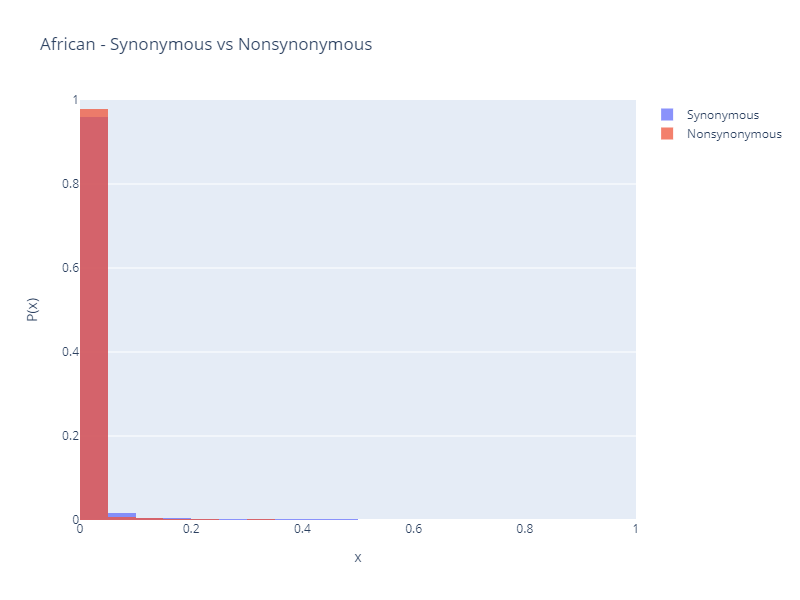
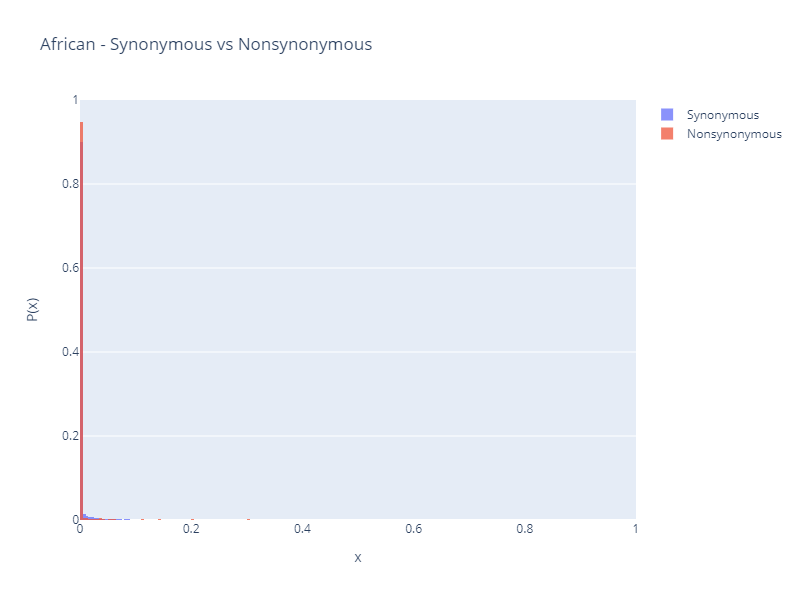
Log and nonlog plots; pickling

Changed region(s): [[0.0938, 0.18, 0.2188, 0.87]]

diff --git a/csv_syne1.py b/csv_syne1.py
@@ -1,6 +1,7 @@
 import pandas as pd
 import numpy as np
 import plotly.graph_objects as go
+import pickle
 
 
 pops = ['afr', 'amr', 'asj', 'eas', 'fin', 'nfe', 'sas']
@@ -85,6 +86,7 @@ with open('gnomad.exomes.r2.1.1.sites.22.vcf', 'r') as f:
                          variant=variant))
 
 df = pd.DataFrame(variants)
+pickle.dump(df, open('22.p','wb'))
 print(df)
 
 is_nonsyn_code = ((df.variant.isin(nonsyn_coding_variants) & (df.filt_pass == 'PASS')))
@@ -105,31 +107,33 @@ is_splice = ((df.variant.isin(splice_variants) & (df.filt_pass == 'PASS')))
 splice_rows = df[is_splice]
 
 for i, pop in enumerate(pops):
-    synx = syn_rows["ac_%s" %pop].divide(syn_rows["an_%s" %pop]) 
-    #np.log(syn_rows["ac_%s" %pop].divide(syn_rows["an_%s" %pop]))
-    nonsynx = nonsyn_code_rows["ac_%s" %pop].divide(nonsyn_code_rows["an_%s" %pop]) 
-    #np.log(nonsyn_code_rows["ac_%s" %pop].divide(nonsyn_code_rows["an_%s" %pop]))
+    #syn_rows["ac_%s" %pop].divide(syn_rows["an_%s" %pop]) 
+    synx = np.log(syn_rows["ac_%s" %pop].divide(syn_rows["an_%s" %pop]))
+    #nonsyn_code_rows["ac_%s" %pop].divide(nonsyn_code_rows["an_%s" %pop]) 
+    nonsynx = np.log(nonsyn_code_rows["ac_%s" %pop].divide(nonsyn_code_rows["an_%s" %pop]))
     fig = go.Figure();
     fig.add_trace(go.Histogram(x=synx, histnorm='probability', name="Synonymous", autobinx=False,
-                               xbins=dict(start=0, end=1, size=.005), opacity=.75))
+                               #xbins=dict(start=0, end=1, size=.005), opacity=.75))
+                               xbins=dict(start=-10, end=0, size=.1), opacity=.5))
     fig.add_trace(go.Histogram(x=nonsynx, histnorm='probability', name="Nonsynonymous", autobinx=False,
-                               xbins=dict(start=0, end=1, size=.005), opacity=.75))
+                               #xbins=dict(start=0, end=1, size=.005), opacity=.75))
+                               xbins=dict(start=-10, end=0, size=.1), opacity=.5))
     fig.update_layout(
             barmode='overlay',
             autosize=False,
             width=800,
             height=600,
             yaxis=go.layout.YAxis(
-                title_text="P(x)",
-                #type="log",
-                range=[0,1]
+                title_text="P(x) (log scale)",
+                type="log",
+                range=[-10,0]
             ),
             xaxis=go.layout.XAxis(
-                title_text="x",
-                range=[0,1]
+                title_text="log(x)",
+                range=[-10,0]
             ),
             title_text="%s - Synonymous vs Nonsynonymous" %namepops[i]
         )
     fig.show()
-    fig.write_image("%s_non_syn.png" %pop)
+    fig.write_image("%s_non_syn_log.png" %pop)
 
